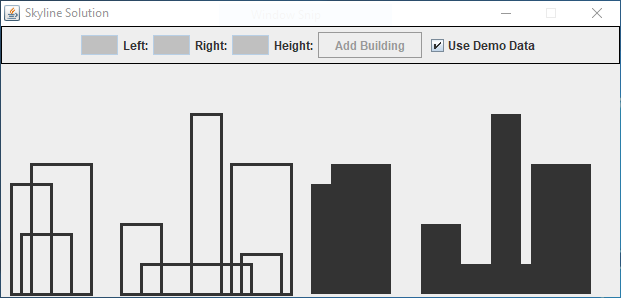
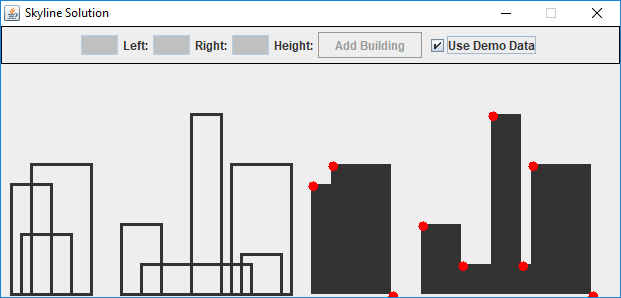
Plot the Solution
Overlay the solution as a set of points plotted over the silhouette or skyline.

diff --git a/src/org/poc/algorithm/skyline/SolutionPane.java b/src/org/poc/algorithm/skyline/SolutionPane.java
@@ -4,12 +4,14 @@ import java.awt.BasicStroke;
 import java.awt.Color;
 import java.awt.Graphics;
 import java.awt.Graphics2D;
+import java.util.ArrayList;
 import java.util.List;
 
 import javax.swing.JFrame;
 import javax.swing.JPanel;
 
 import org.poc.algorithm.skyline.SkylineProblem.Building;
+import org.poc.algorithm.skyline.SkylineProblem.Skyline;
 
 public class SolutionPane extends JPanel {
 
@@ -20,13 +22,15 @@ public class SolutionPane extends JPanel {
 	
 	private int maxBuildingHeight = 0;
 	private List<Building> buildings;
+	private ArrayList<Skyline> skylineList;
 	
-	public SolutionPane(List<SkylineProblem.Building> buildings) {
-		addBuildings(buildings);
+	public SolutionPane(List<SkylineProblem.Building> buildings, ArrayList<Skyline> skylineList) {
+		addBuildings(buildings, skylineList);
 	}
 	
-	public void addBuildings(List<SkylineProblem.Building> buildings) {
+	public void addBuildings(List<SkylineProblem.Building> buildings, ArrayList<Skyline> skylineList) {
 		this.buildings = buildings;
+		this.skylineList = skylineList;
 
 		// Get it to work first; then optimize. I say this because we will have to loop
 		// through the list twice. :(
@@ -44,25 +48,30 @@ public class SolutionPane extends JPanel {
 		Graphics2D g2 = (Graphics2D) g;
 		super.paintComponent(g);		
 		
-		g2.setStroke(new BasicStroke(3));
+		float lineWidth = 3;
+		g2.setStroke(new BasicStroke(lineWidth));
 		
 		int lastXr = 0;
 		for (Building b : buildings) {
 			int delta = (maxBuildingHeight - b.height) * 10;
 			g.drawRect(b.left * 10, 50 + delta, (b.right - b.left) * 10, b.height * 10);
 			lastXr = b.left * 10 + (b.right - b.left) * 10;
-		}
-		
-		// Plot some points to become familiar with "anti" coordinate system.
-		// g2.setColor(Color.red);
-		// g2.drawOval(5, 5, 10, 10);
-		// g2.drawOval(this.getWidth() - 20, this.getHeight() - 20, 10, 10);
-		// TODO: Plot the points of the solution.
+		}		
+
 		// Separate the buildings by 20 increments.
 		lastXr += 20;
 		for (Building b : buildings) {
 			int delta = (maxBuildingHeight - b.height) * 10;
 			g.fillRect(b.left * 10 + lastXr, 50 + delta, (b.right - b.left) * 10, b.height * 10);
+		}
+		
+		// Plot the solution as points overlaid upon the skyline. Account for the line
+		// thickness by adding 3.
+		g2.setColor(Color.red);
+		for (Skyline s : skylineList) {
+			int delta = (maxBuildingHeight - s.height) * 10;
+			g2.fillOval(s.coordinates * 10 + lastXr - Math.round(lineWidth), delta + 50 - Math.round(lineWidth), 
+					10, 10);
 		}
 	}
 	

diff --git a/src/org/poc/algorithm/skyline/SolutionFrame.java b/src/org/poc/algorithm/skyline/SolutionFrame.java
@@ -4,7 +4,7 @@ import java.awt.BorderLayout;
 import java.awt.Color;
 import java.awt.event.ActionEvent;
 import java.awt.event.ActionListener;
-import java.awt.event.ItemListener;
+import java.util.ArrayList;
 import java.util.List;
 
 import javax.swing.BorderFactory;
@@ -15,6 +15,8 @@ import javax.swing.JLabel;
 import javax.swing.JPanel;
 import javax.swing.JTextField;
 import javax.swing.SwingConstants;
+
+import org.poc.algorithm.skyline.SkylineProblem.Skyline;
 
 public class SolutionFrame extends JFrame {
 
@@ -36,13 +38,13 @@ public class SolutionFrame extends JFrame {
 	JPanel contentPane;
 	SolutionPane solutionPane;
 	
-	public SolutionFrame(List<SkylineProblem.Building> buildingList) {
+	public SolutionFrame(List<SkylineProblem.Building> buildingList, ArrayList<Skyline> skylineList) {
 		// TODO: Shouldn't we do all this initialization in the solution panel?
 		contentPane = new JPanel();
 		contentPane.setLayout(new BorderLayout(0, 0));
 		setContentPane(contentPane);
 		
-		solutionPane  = new SolutionPane(buildingList);
+		solutionPane  = new SolutionPane(buildingList, skylineList);
 		contentPane.add(solutionPane, BorderLayout.CENTER);
 
 		JPanel inputPanel = new JPanel();

diff --git a/src/org/poc/algorithm/skyline/SkylineProblem.java b/src/org/poc/algorithm/skyline/SkylineProblem.java
@@ -77,16 +77,18 @@ public class SkylineProblem {
 		}
 		
 		System.out.print("Solution: ");
-		this.print(this.findSkyline(0, building.length - 1));
+		ArrayList<Skyline> skylineList = this.findSkyline(0, building.length - 1);
+		this.print(skylineList);
 		
-		showVisualization(building);
+		showVisualization(building, skylineList);
 	}
 	
-	private void showVisualization(Building[] b) {
+	private void showVisualization(Building[] b, ArrayList<Skyline> skylineList) {
 		SwingUtilities.invokeLater(new Runnable() {
 			public void run() {
-				SolutionPane solutionPane = new SolutionPane(Arrays.asList(b));
-				SolutionFrame frame = new SolutionFrame(Arrays.asList(b));
+				// TODO: Eliminate redundant parameters.
+				SolutionPane solutionPane = new SolutionPane(Arrays.asList(b), skylineList);
+				SolutionFrame frame = new SolutionFrame(Arrays.asList(b), skylineList);
 				frame.setTitle("Skyline Solution");
 				frame.setDefaultCloseOperation(JFrame.EXIT_ON_CLOSE);
 				frame.getContentPane().add(solutionPane);

diff --git a/README.md b/README.md
@@ -4,6 +4,6 @@ Uses the solution from the Algorithms - Java project: [SkylineProblem](https://g
 
 The problem is explained here: [Divide and Conquer | Set 7 (The Skyline Problem)](https://www.geeksforgeeks.org/divide-and-conquer-set-7-the-skyline-problem/).
 
-The following illustration presents our visualization. On the left are each of the buildings; where visible and non visible portions are shown. On the right is the silhouette or skyline.
+The following illustration presents our visualization. On the left are each of the buildings; where visible and non visible portions are shown. On the right is the silhouette or skyline, where the solution is plotted as a set of points.
 
 ![Example](images/demo.png)
